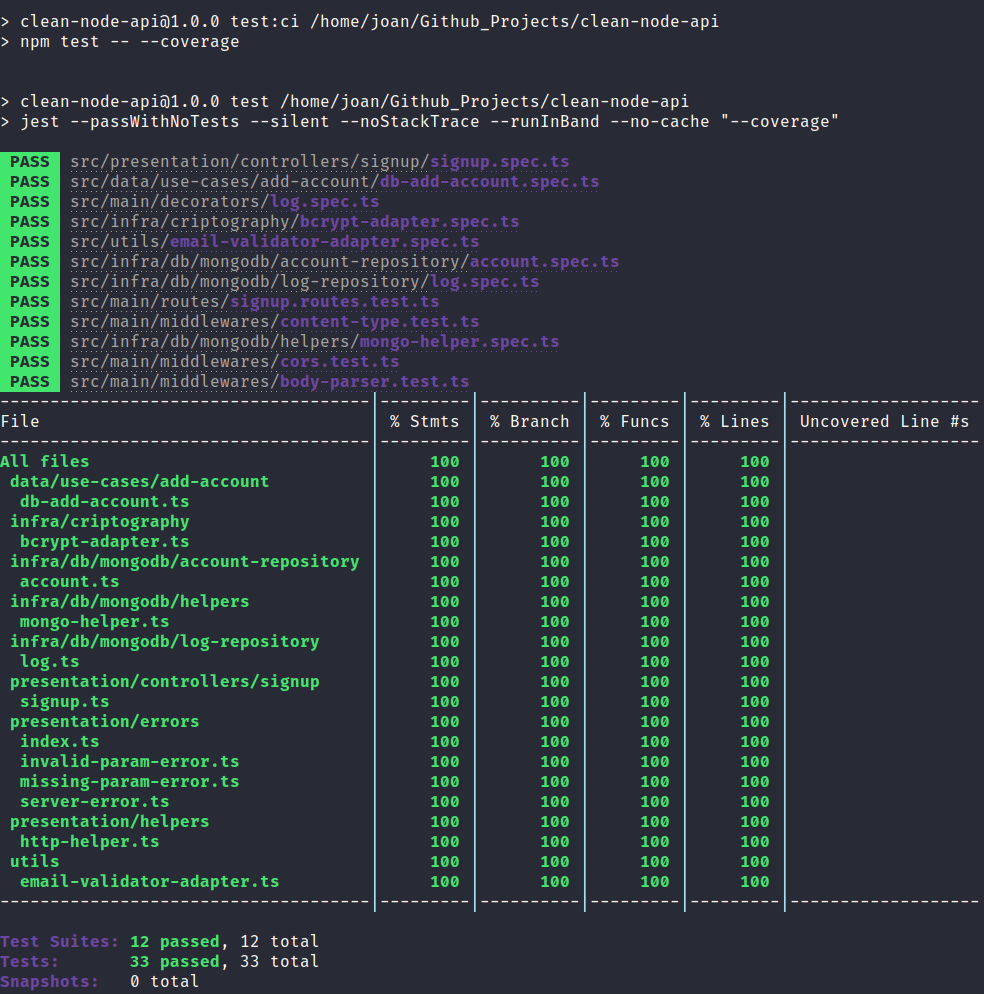
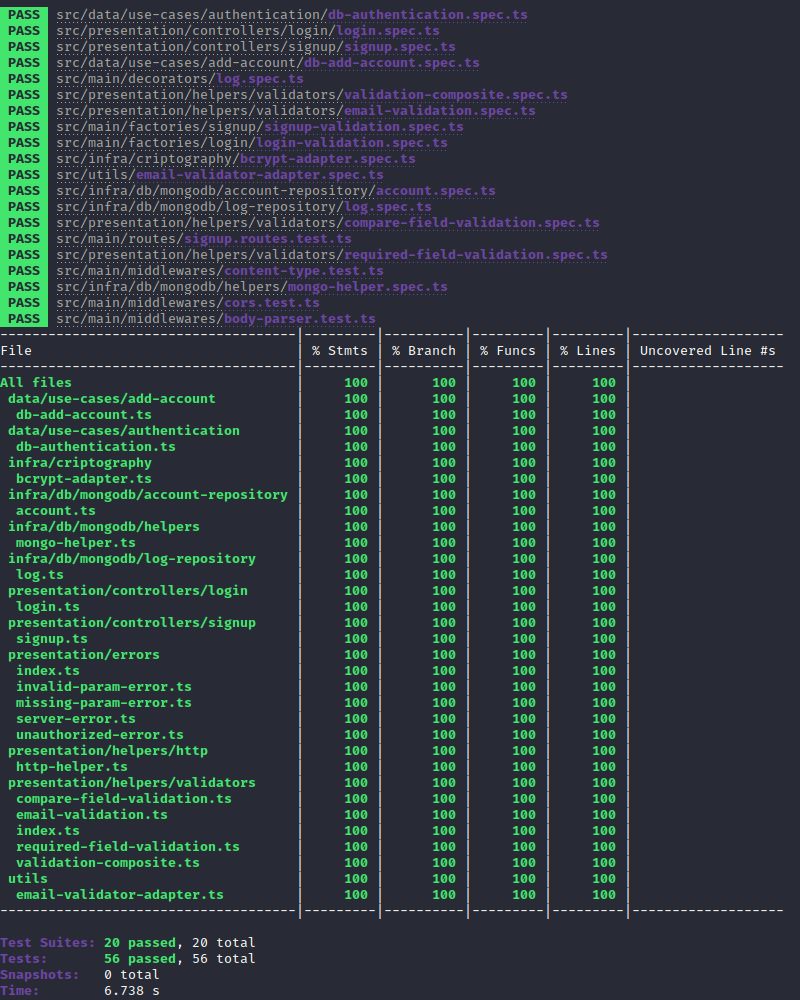
docs: update read-me

Changed region(s): [[0.0, 0.0, 1.0, 0.998], [0.8438, 0.9044, 0.9688, 0.9356], [0.7812, 0.0936, 0.8438, 0.1247]]

diff --git a/README.md b/README.md
@@ -1,6 +1,6 @@
 # clean-node-api
   Projeto de estudos e boas práticas com NodeJs, Typescript, TDD, Clean Architecture e SOLID.
 
-## Coverage dos testes: 1.0.0
+## Coverage dos testes: 1.1.0
 
 ![banner](.github/coverage.png)
